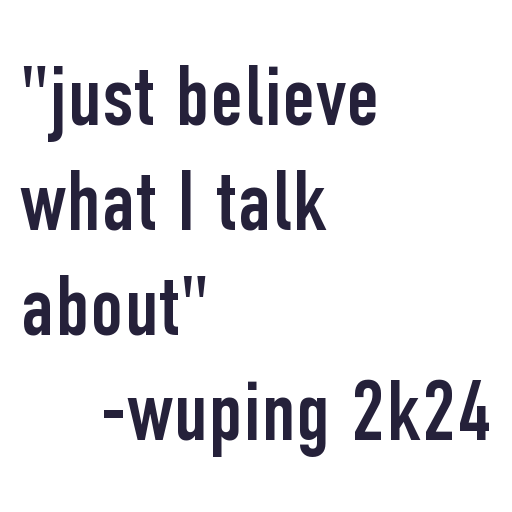
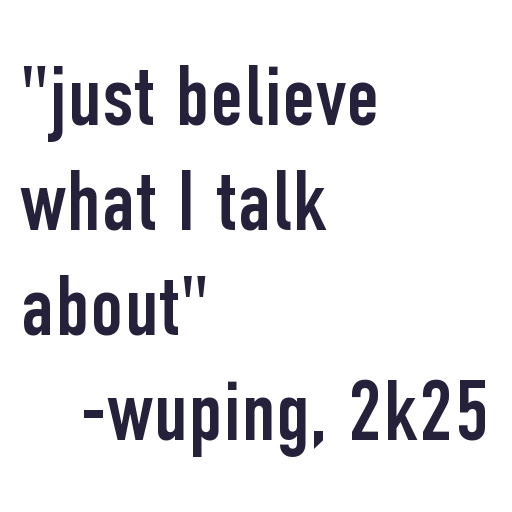
dynamic font sizing, datetime, and byline

Changed region(s): [[0.1562, 0.7188, 0.6562, 0.9062], [0.6875, 0.7188, 0.9688, 0.875]]

diff --git a/commands/image_generator.py b/commands/image_generator.py
@@ -1,25 +1,52 @@
 from PIL import Image, ImageDraw, ImageFont
+from datetime import datetime
 
 def create_quote_image(path, text: str, author: str = "wuping"):
     image = Image.new("RGBA", (512, 512), (0, 0, 0, 0))
     draw = ImageDraw.Draw(image)
 
-    font = ImageFont.truetype("./DINCondensed-Regular.ttf", 85)
-
+    font_size = 85
     quote_array = f'"{text}"'.split(" ")
-    current_text = ""
+    current_year = datetime.now().year
+    yr = str(current_year)
+    if yr[-3] == '0':
+        yr = yr[:-3] + 'k' + yr[-2:]
 
-    for word in quote_array:
-        left, top, right, bottom = draw.textbbox((20, 400), current_text + word + " ", stroke_width=12, font=font)
-        if right > 512:
-            current_text += "\n"
-        current_text += word + " "
+    while font_size > 10:
 
-    current_text += f"\n    -{author} 2k24"
+        stroke = int(font_size*0.142)
+        font = ImageFont.truetype("./DINCondensed-Regular.ttf", font_size)
+        current_text = ""
 
-    _, _, _, height = draw.textbbox((12, -5), current_text, stroke_width=12, font=font)
+        for word in quote_array:
+            _, _, right, _ = draw.textbbox((20, 400), current_text + word + " ", stroke_width=stroke, font=font)
+            if right > 512:
+                current_text += "\n"
+            current_text += word + " "
 
-    draw.text((20, (512 - height) / 2), current_text, fill=(37, 33, 58, 255), stroke_fill=(255, 255, 255, 255), stroke_width=12, font=font)
+        ### BYLINE
+        byline = f"-{author}, {yr}"
+        max_line = len(byline)
+        right = 0
+        _, _, right, _ = draw.textbbox((20, 400), byline, stroke_width=stroke, font=font)
+        if right > 512-stroke:
+            font_size = font_size//1.1
+            continue
+        while right < 512-stroke:
+            max_line += 1
+            _, _, right, _ = draw.textbbox((20, 400), byline.rjust(max_line), stroke_width=stroke, font=font)
+        current_text += '\n' + byline.rjust(max_line)
+        
+        ### CHECK BOUNDS
+
+        _, top, _, bottom = draw.textbbox((20, 400), current_text, stroke_width=stroke, font=font)
+        if bottom - top > 512:
+            font_size = font_size//1.1
+        else:
+            break
+
+    _, _, _, height = draw.textbbox((12, -5), current_text, stroke_width=stroke, font=font)
+    draw.text((20, (512 - height) / 2), current_text, fill=(37, 33, 58, 255), stroke_fill=(255, 255, 255, 255), stroke_width=stroke, font=font)
 
     image.save(path)
 
